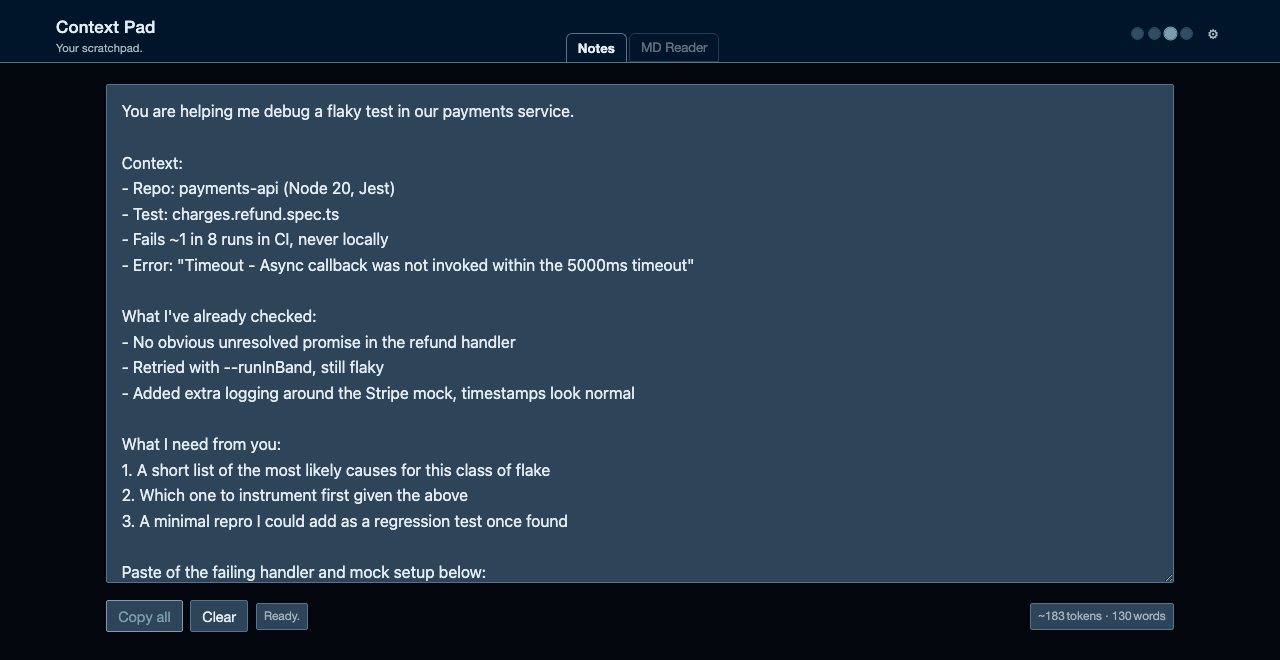
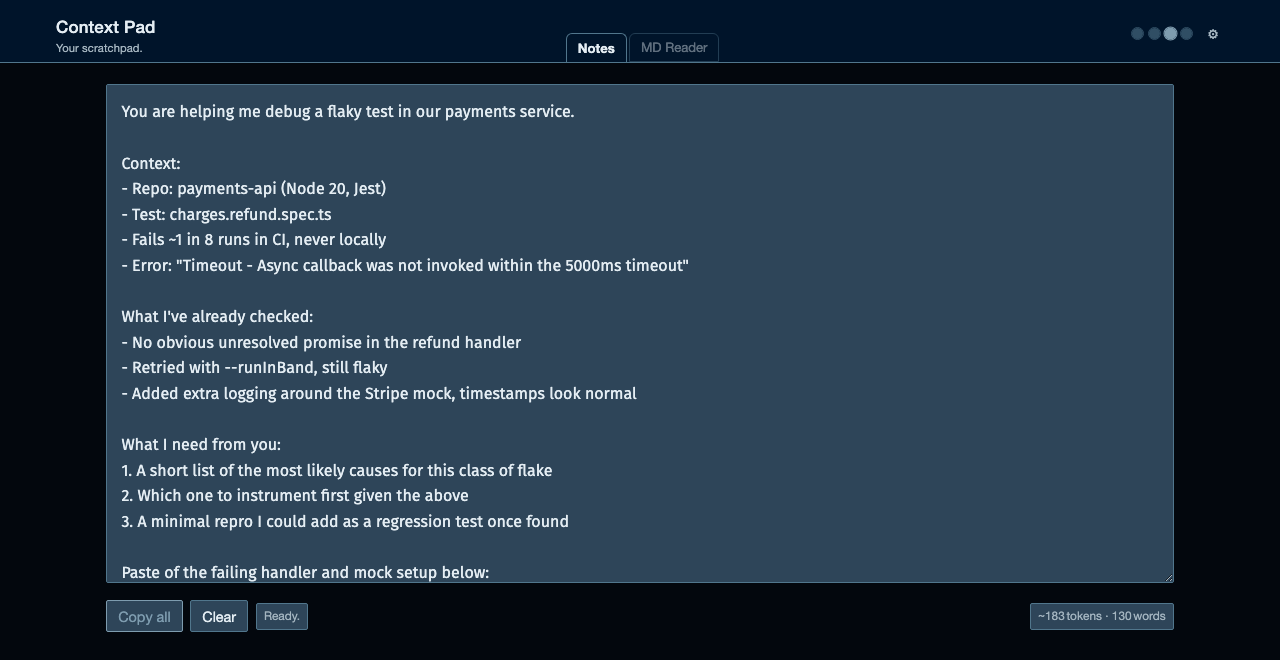
Replace font picker with picks from r/typography's Google Fonts thread
Swap the previous sans/Lora/JetBrains Mono/Special Elite/Caveat set for
six picks sourced from a well-regarded typography thread recommending
quality-vetted Google Fonts: Fira Sans (new default), Source Serif 4,
Alegreya, and Newsreader (all explicitly named as top or "great too"
picks), Montserrat, and IBM Plex Mono (keeps a code-friendly mono
option, drawn from the explicitly-recommended Plex family).

Verified all six actually load (document.fonts.check) and render
correctly in both the Notes textarea and MD Reader content.

Also regenerates the three README screenshots, which showed the old
default font. screen_read.png previously displayed what looked like a
personal document of Keno's — replaced with the actual README.md via
the real "Open .md file" flow instead (file:// pages can't fetch()
local files due to Chromium's CORS restriction on the file scheme, so
this uses setInputFiles rather than the fetch-based README shortcut
link, which only works when served over http).

diff --git a/index.html b/index.html
@@ -7,7 +7,7 @@
   <title>Context Pad</title>
   <link rel="preconnect" href="https://fonts.googleapis.com">
   <link rel="preconnect" href="https://fonts.gstatic.com" crossorigin>
-  <link href="https://fonts.googleapis.com/css2?family=Caveat:wght@400;600&family=JetBrains+Mono:ital,wght@0,400;0,500&family=Lora:ital,wght@0,400;0,600;1,400&family=Special+Elite&display=swap" rel="stylesheet">
+  <link href="https://fonts.googleapis.com/css2?family=Alegreya:ital,wght@0,400;0,600;1,400&family=Fira+Sans:ital,wght@0,400;0,600;1,400&family=IBM+Plex+Mono:ital,wght@0,400;0,500&family=Montserrat:ital,wght@0,400;0,600;1,400&family=Newsreader:ital,wght@0,400;0,600;1,400&family=Source+Serif+4:ital,wght@0,400;0,600;1,400&display=swap" rel="stylesheet">
   <link rel="stylesheet" href="./theme.css" />
 </head>
 <body>
@@ -31,11 +31,12 @@
         <fieldset class="settings-group">
           <legend>Font</legend>
           <div class="font-options">
-            <label class="font-opt"><input type="radio" name="bodyFont" value="sans"> <span style="font-family:system-ui,sans-serif">Sans (default)</span></label>
-            <label class="font-opt"><input type="radio" name="bodyFont" value="serif"> <span style="font-family:'Lora',Georgia,serif">Lora serif</span></label>
-            <label class="font-opt"><input type="radio" name="bodyFont" value="mono"> <span style="font-family:'JetBrains Mono',monospace">JetBrains Mono</span></label>
-            <label class="font-opt"><input type="radio" name="bodyFont" value="typewriter"> <span style="font-family:'Special Elite',monospace">Special Elite</span></label>
-            <label class="font-opt"><input type="radio" name="bodyFont" value="script"> <span style="font-family:'Caveat',cursive">Caveat script</span></label>
+            <label class="font-opt"><input type="radio" name="bodyFont" value="fira-sans"> <span style="font-family:'Fira Sans',system-ui,sans-serif">Fira Sans (default)</span></label>
+            <label class="font-opt"><input type="radio" name="bodyFont" value="source-serif"> <span style="font-family:'Source Serif 4',Georgia,serif">Source Serif 4</span></label>
+            <label class="font-opt"><input type="radio" name="bodyFont" value="alegreya"> <span style="font-family:'Alegreya',Georgia,serif">Alegreya</span></label>
+            <label class="font-opt"><input type="radio" name="bodyFont" value="newsreader"> <span style="font-family:'Newsreader',Georgia,serif">Newsreader</span></label>
+            <label class="font-opt"><input type="radio" name="bodyFont" value="montserrat"> <span style="font-family:'Montserrat',system-ui,sans-serif">Montserrat</span></label>
+            <label class="font-opt"><input type="radio" name="bodyFont" value="plex-mono"> <span style="font-family:'IBM Plex Mono',monospace">IBM Plex Mono</span></label>
           </div>
           <div class="font-size-row">
             <label for="fontSizeSlider">Size</label>

diff --git a/theme.css b/theme.css
@@ -592,11 +592,12 @@ label:focus-visible {
 
 /* ── Font Body ───────────────────────────────────── */
 
-body[data-font="sans"]       { --font-body: "Public Sans", system-ui, sans-serif; }
-body[data-font="serif"]      { --font-body: "Lora", Georgia, serif; }
-body[data-font="mono"]       { --font-body: "JetBrains Mono", monospace; }
-body[data-font="typewriter"] { --font-body: "Special Elite", "Courier New", monospace; }
-body[data-font="script"]     { --font-body: "Caveat", cursive; }
+body[data-font="fira-sans"]    { --font-body: "Fira Sans", system-ui, sans-serif; }
+body[data-font="source-serif"] { --font-body: "Source Serif 4", Georgia, serif; }
+body[data-font="alegreya"]     { --font-body: "Alegreya", Georgia, serif; }
+body[data-font="newsreader"]   { --font-body: "Newsreader", Georgia, serif; }
+body[data-font="montserrat"]   { --font-body: "Montserrat", system-ui, sans-serif; }
+body[data-font="plex-mono"]    { --font-body: "IBM Plex Mono", monospace; }
 
 .textpad,
 .content {

diff --git a/app.js b/app.js
@@ -17,8 +17,8 @@
   const DEFAULT_WIDTH_PX = 1100;
   const WIDTH_MIN = 400;
   const WIDTH_MAX = 1400;
-  const DEFAULT_FONT  = 'sans';
-  const VALID_FONTS   = ['sans', 'serif', 'mono', 'typewriter', 'script'];
+  const DEFAULT_FONT  = 'fira-sans';
+  const VALID_FONTS   = ['fira-sans', 'source-serif', 'alegreya', 'newsreader', 'montserrat', 'plex-mono'];
   const FONTSIZE_KEY     = 'contextPadFontSize';
   const DEFAULT_FONTSIZE = 16;
   const FONTSIZE_MIN     = 13;

diff --git a/README.md b/README.md
@@ -67,7 +67,7 @@ Choice persists across sessions.
 
 ### Settings (⚙)
 - **Content width** — slider from 400 to 1400 px controls how much whitespace appears on the sides
-- **Font** — choose from System sans, Lora serif, JetBrains Mono, Special Elite (typewriter), or Caveat (script)
+- **Font** — choose from Fira Sans (default), Source Serif 4, Alegreya, Newsreader, Montserrat, or IBM Plex Mono
 - **Spell check** — toggle browser spell-check on the notes textarea
 - **Table of Contents** — show/hide the TOC sidebar in the MD reader
 
